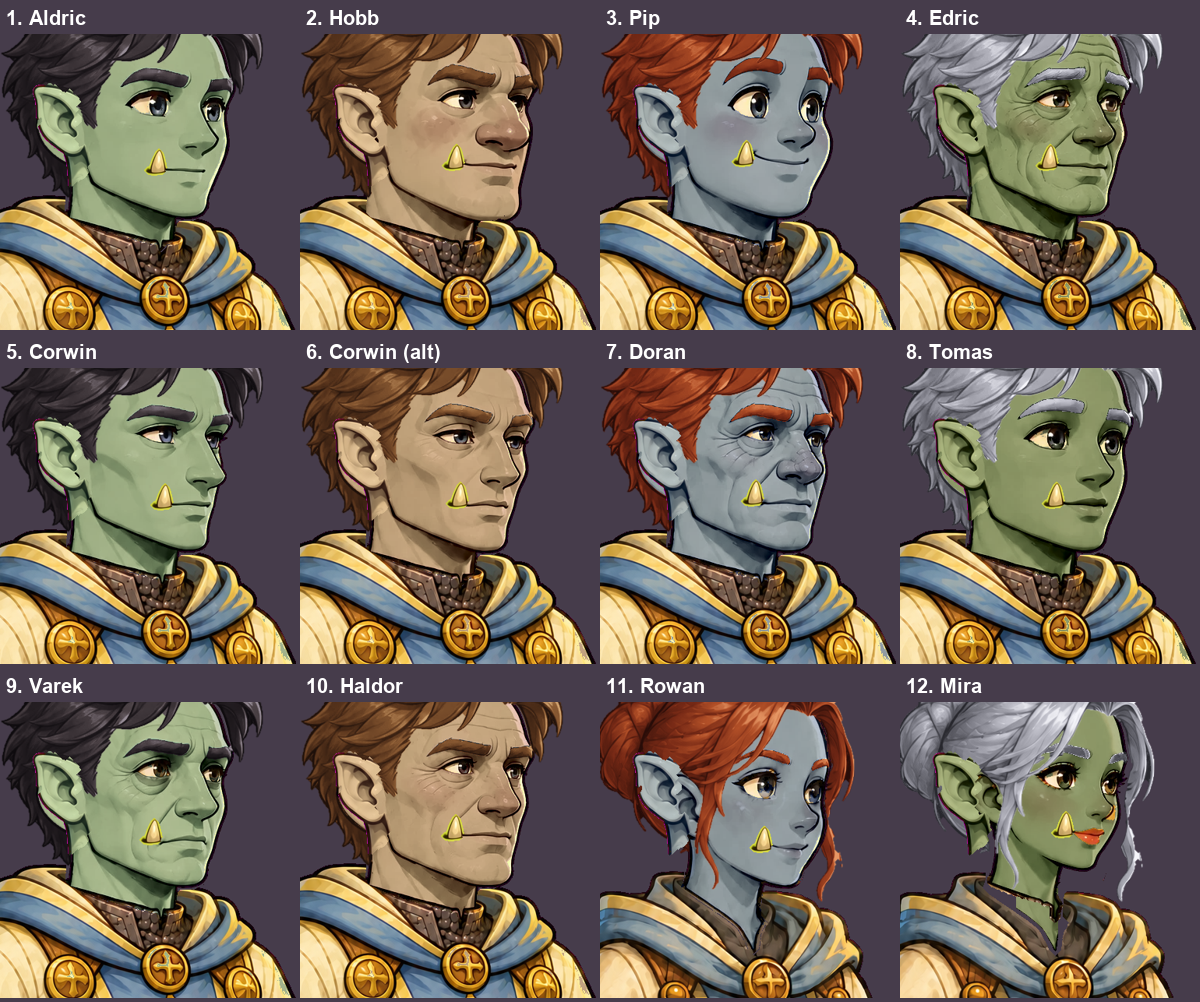
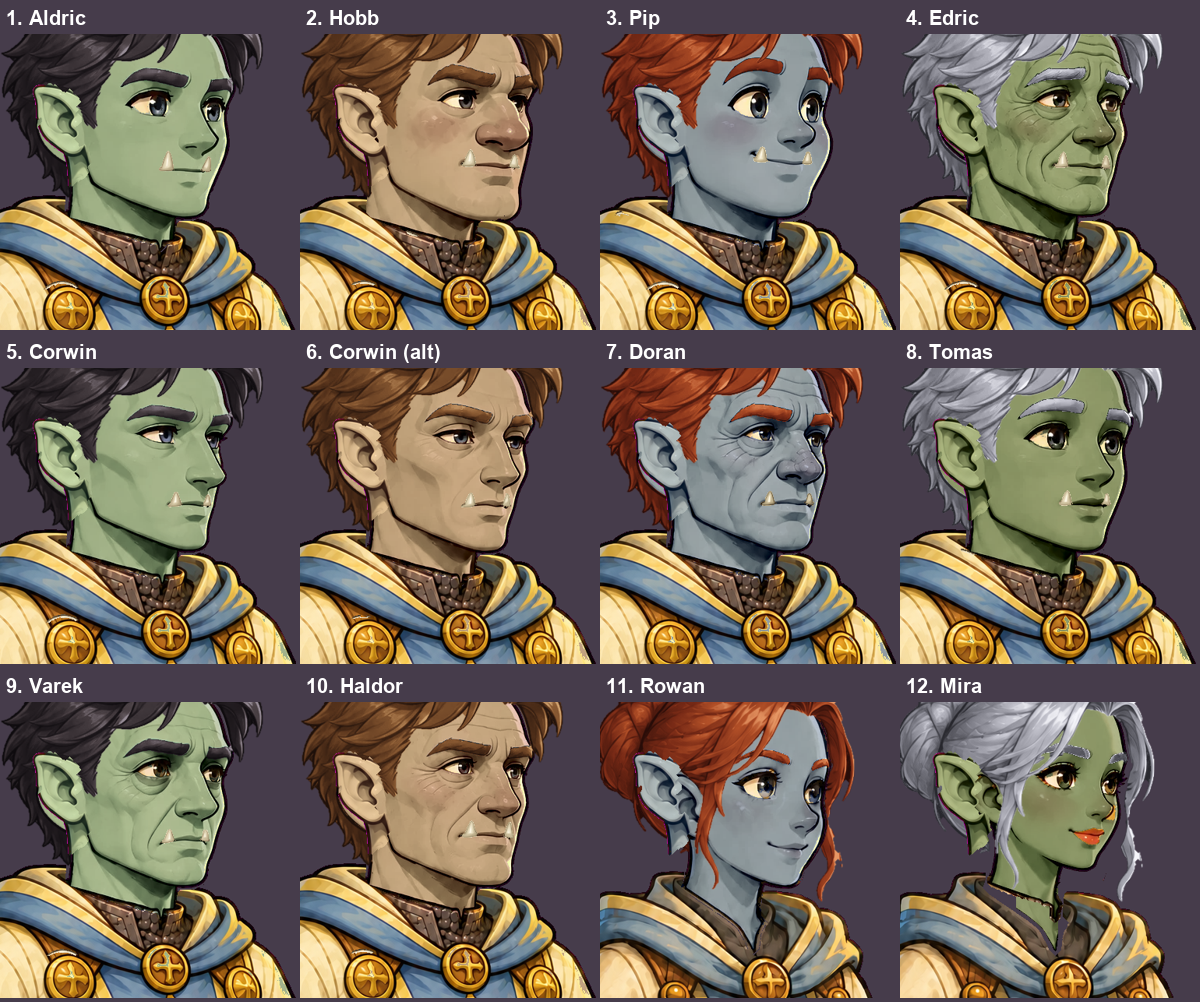
Per-face painted tusks from a batch face sheet (one edit, 10 faces); ogres require painted tusks

diff --git a/preview-character/index.html b/preview-character/index.html
@@ -166,7 +166,8 @@ function gradientPart(file, lum, colour) {
 }
 
 // ---- Assembly ---------------------------------------------------------------
-const facesFor = race => M.faces.filter(f => (!f.races || f.races.includes(race)) && !(f.blocked_races || []).includes(race));
+const facesFor = race => M.faces.filter(f => (!f.races || f.races.includes(race)) && !(f.blocked_races || []).includes(race)
+  && !(race === 'ogre' && !f.races && !f.tusks));   // generic faces need painted tusks to be ogres
 const hairsFor = face => M.hairs.filter(h => h.fits.includes(face.template) && !(face.blocked_hair || []).includes(h.id));
 const bodiesFor = face => M.bodies.filter(b => b.template === face.template);
 

diff --git a/tools/extract_sheet.py b/tools/extract_sheet.py
@@ -1,0 +1,54 @@
+"""Extract an orange-keyed part (e.g. tusks) from a batch-edited face sheet and map each
+cell back onto its full-size face canvas, recoloured with a gradient ramp.
+
+Usage: python tools/extract_sheet.py art/sheets/faces_m.json EDITED.png tusks
+Writes art/parts/<kind>/<kind>_<face>.png (1024x1536, canvas-aligned).
+"""
+import json
+import sys
+from pathlib import Path
+
+import numpy as np
+from PIL import Image
+from scipy import ndimage
+
+sys.path.insert(0, str(Path(__file__).resolve().parent))
+from recolor import gradient_map  # noqa: E402
+from skin import _hsv  # noqa: E402
+
+ROOT = Path(__file__).resolve().parent.parent
+RAMPS = {"tusks": [(70, 58, 42), (176, 160, 124), (228, 216, 184), (252, 246, 228)]}
+
+
+def main(cells_json, edited, kind):
+    cells = json.loads(Path(cells_json).read_text())
+    e = np.asarray(Image.open(edited).convert("RGBA")).copy()
+    h, s, v = _hsv(e)
+    orig = np.asarray(Image.open(Path(cells_json).with_suffix(".png")).convert("RGB")).astype(int)
+    changed = np.abs(e[..., :3].astype(int) - orig).sum(2) > 90
+    key = (h >= 0) & (h <= 48) & (s > 0.55) & (v > 0.45) & changed
+    out_dir = ROOT / "art" / "parts" / kind
+    out_dir.mkdir(parents=True, exist_ok=True)
+    for c in cells:
+        X, Y = c["sheet_xy"]
+        W, H = c["size"]
+        m = np.zeros(key.shape, bool)
+        m[Y:Y + H, X:X + W] = key[Y:Y + H, X:X + W]
+        lab, n = ndimage.label(m)
+        if n:
+            sizes = ndimage.sum(m, lab, range(1, n + 1))
+            m = np.isin(lab, 1 + np.flatnonzero(sizes >= 25))
+        m = ndimage.binary_closing(m, iterations=1)
+        m |= ndimage.binary_dilation(m, iterations=2) & (v < 0.35)   # painted outline
+        piece = e.copy()
+        piece[~m, 3] = 0
+        canvas = np.zeros((1536, 1024, 4), np.uint8)
+        sx, sy = c["src_xy"]
+        canvas[sy:sy + H, sx:sx + W] = piece[Y:Y + H, X:X + W]
+        img = gradient_map(Image.fromarray(canvas), RAMPS.get(kind, RAMPS["tusks"]))
+        img.save(out_dir / f"{kind}_{c['id']}.png")
+        print(c["label"], int(m.sum()), "px")
+
+
+if __name__ == "__main__":
+    main(*sys.argv[1:4])

diff --git a/tools/face_sheet.py b/tools/face_sheet.py
@@ -1,0 +1,38 @@
+"""Pack all generic faces of one template into a single 1536x1024 sheet for batch
+ChatGPT edits (e.g. blue tusks / ears on every face at once), and record each cell's
+offset so extracted parts can be mapped back onto the original faces.
+
+Usage: python tools/face_sheet.py m        -> art/sheets/faces_m.png + faces_m.json
+"""
+import json
+import sys
+from pathlib import Path
+
+import numpy as np
+from PIL import Image
+
+sys.path.insert(0, str(Path(__file__).resolve().parent))
+import build_preview as bp  # noqa: E402
+
+ROOT = Path(__file__).resolve().parent.parent
+tpl = sys.argv[1] if len(sys.argv) > 1 else "m"
+faces = [f for f in bp.FACES if f[3] == tpl and f[4] is None]
+COLS, CW, CH = 5, 300, 400            # cell size at native resolution (no scaling)
+W, H = 1536, 1024
+gx, gy = (W - COLS * CW) // 2, (H - 2 * CH) // 3
+sheet = Image.new("RGB", (W, H), (255, 0, 255))
+cells = []
+for i, (fid, fname, label, _, _) in enumerate(faces[:10]):
+    src = bp.SRC / f"{fname}.png"
+    a = np.asarray(Image.open(src).convert("RGB"))
+    top, cx = bp.skull(bp.keyed(src))[:2]
+    x0, y0 = cx - CW // 2 - 20, top - 30           # crop window in source coords
+    crop = Image.fromarray(a).crop((x0, y0, x0 + CW, y0 + CH))
+    X, Y = gx + (i % COLS) * CW, gy + (i // COLS) * (CH + gy)
+    sheet.paste(crop, (X, Y))
+    cells.append({"id": fid, "label": label, "src": str(src.relative_to(ROOT)), "sheet_xy": [X, Y], "src_xy": [x0, y0], "size": [CW, CH]})
+out = ROOT / "art" / "sheets"
+out.mkdir(parents=True, exist_ok=True)
+sheet.save(out / f"faces_{tpl}.png")
+(out / f"faces_{tpl}.json").write_text(json.dumps(cells, indent=1))
+print(len(cells), "faces ->", out / f"faces_{tpl}.png")

diff --git a/tools/build_preview.py b/tools/build_preview.py
@@ -389,6 +389,9 @@ def main():
                 # Moved tusks read as stickers (reviewed 2026-10-10); tusks must be painted
                 # per face (blue-key edit, extracted like hair). Kept off until then.
                 tusks = tusk_layer(mo, head) if TRANSPLANT_TUSKS else None
+            painted = PARTS / "tusks" / f"tusks_{fid}.png"   # per-face tusks from the batch sheet
+            if painted.exists():
+                tusks = np.asarray(Image.open(painted).convert("RGBA")).copy()
                 if tusks is not None:
                     extra["tusks"] = save_part(tusks, f"tusks_{fid}")
         if fid in NO_BEARD:
